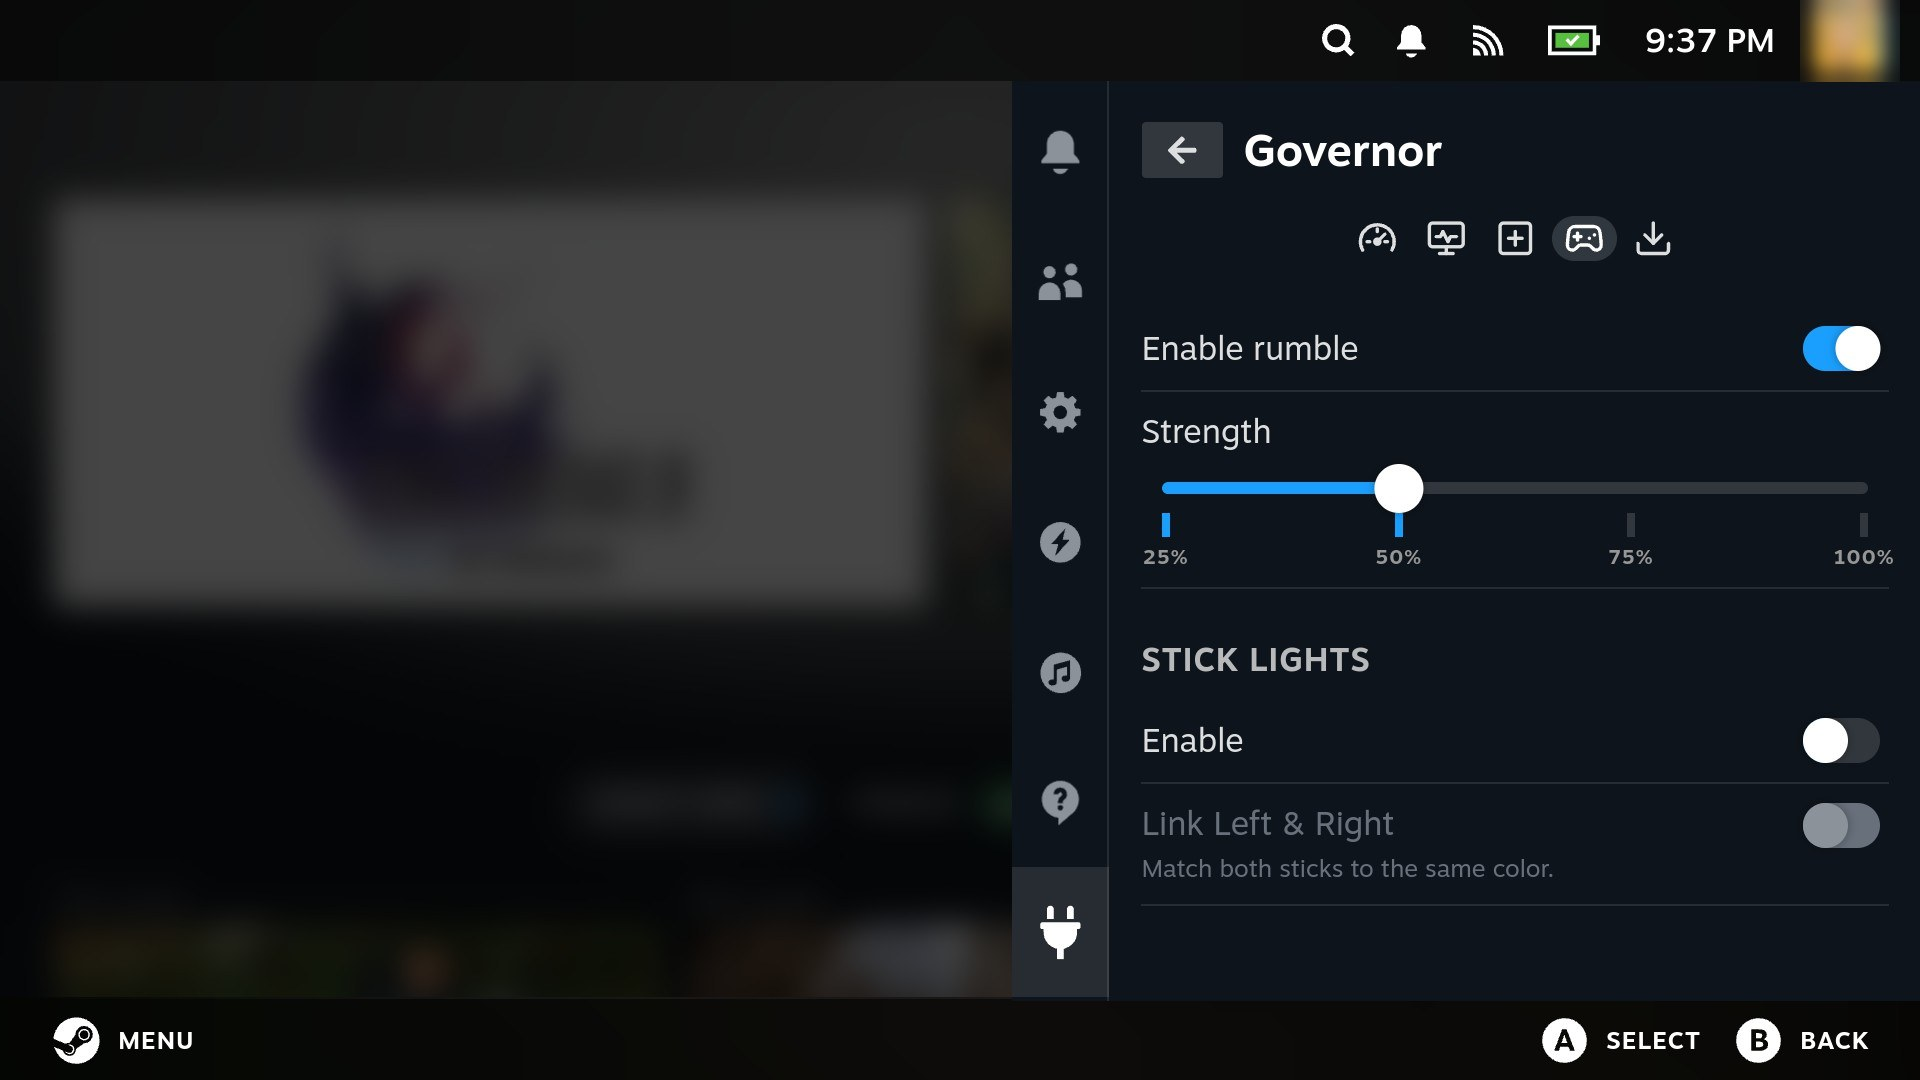
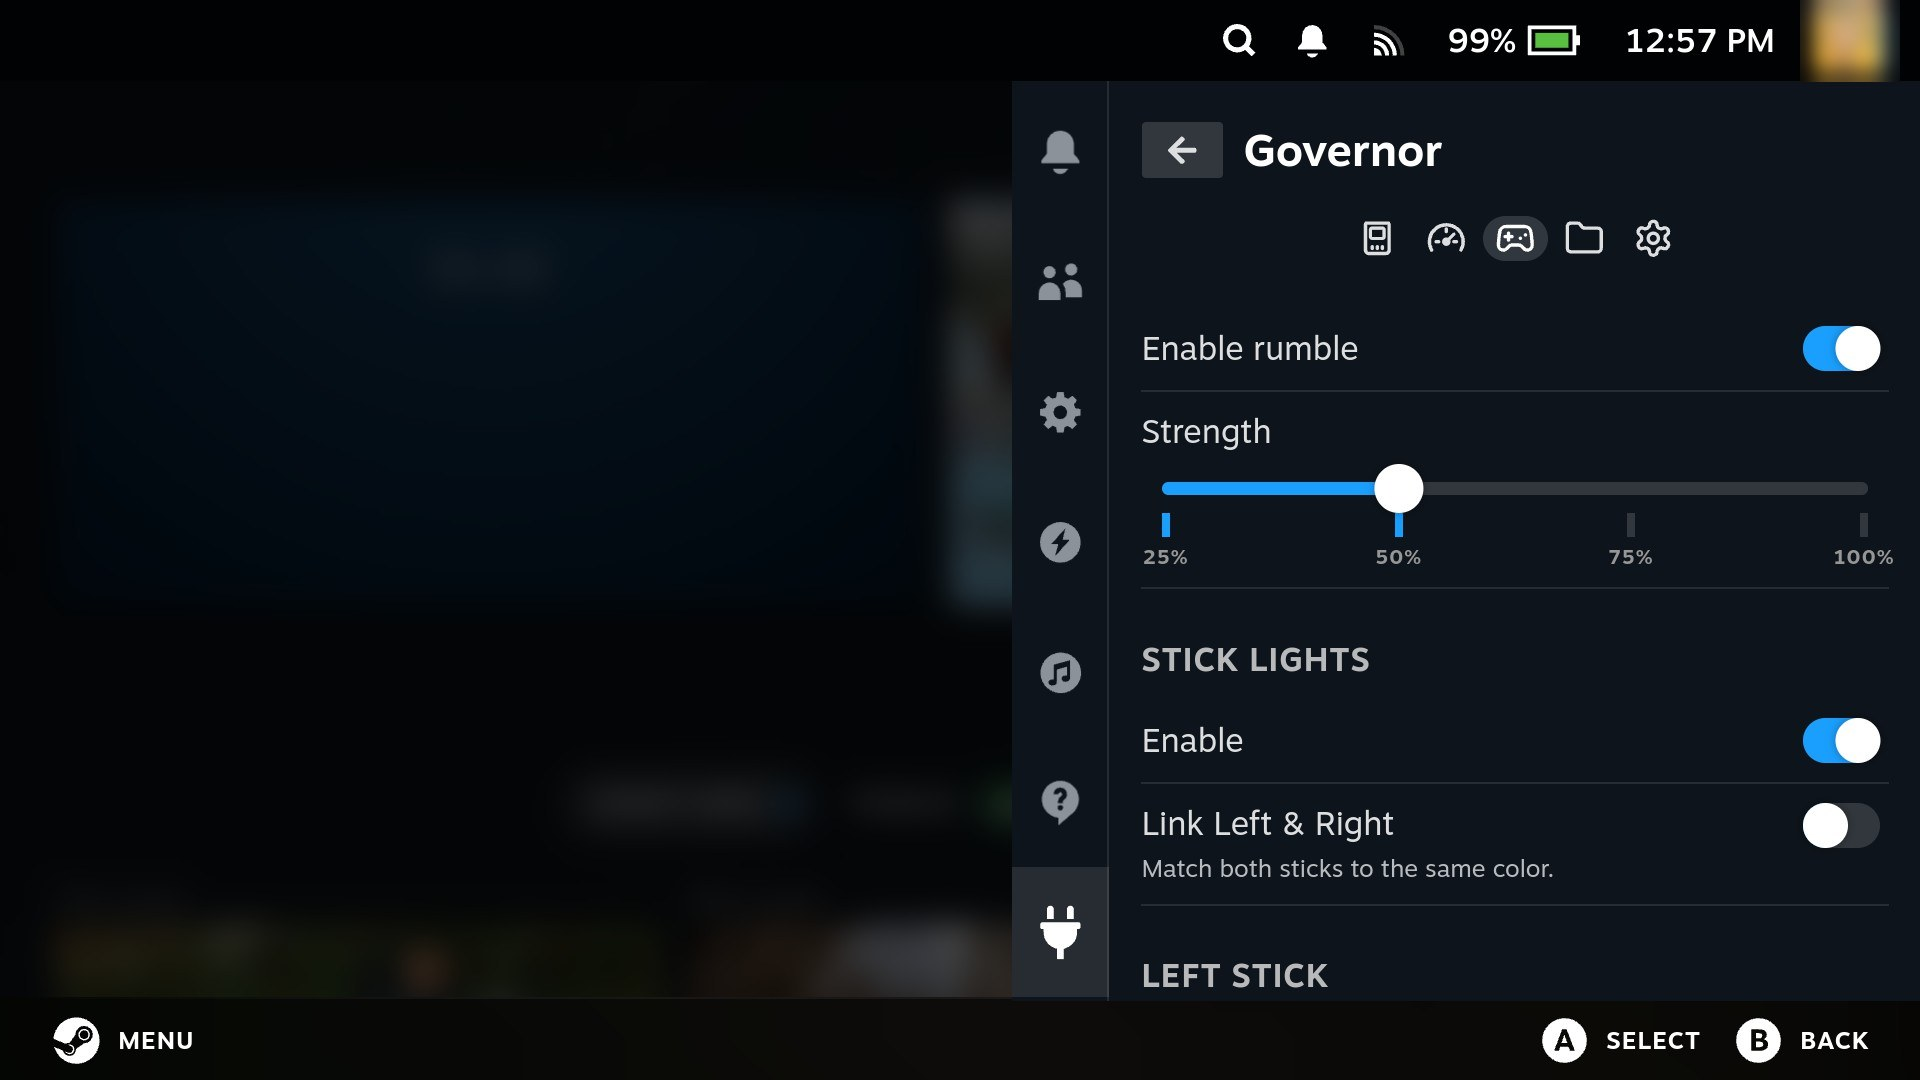
docs: Governor screenshots with the new tabs
Fresh from the RP6 after the tab change, avatar blurred. The This Game
tab's tweaks are back, and the SD card section and linked stick lights
get pictures of their own. The old remote access shot showed the USB
switch on what is now another tab, so it's out until there's a new one.

diff --git a/docs/governor.md b/docs/governor.md
@@ -24,6 +24,8 @@ no fan, no fan curve; a gamepad driver that can't be calibrated, no calibration;
 
 ### Game tweaks
 
+![The This Game tab's Game Tweaks: FEX preset, audio buffer, Xalia and the touchscreen](images/governor-games.jpeg)
+
 Tweaks can be set globally (the **Default** entry in the **Game** dropdown) or per game.
 Every installed Steam game is listed, and so are non-Steam shortcuts (marked `· non-Steam`).
 If you open the menu while a game is running, that game is preselected. To override the
@@ -124,7 +126,7 @@ draw) or **Everything**. It's the same overlay as Steam's own **Performance Over
 the quick access menu, so changing either one changes it. The level you pick here stays from
 game to game (Steam's own setting resets with every game it starts).
 
-![The performance overlay set to Detailed, with the system monitor below it](images/governor-overlay.jpeg)
+![The Performance tab: the overlay on the Compact bar, then the CPU scheduler and fan curve](images/governor-overlay.jpeg)
 
 ### CPU scheduler and fan curve
 
@@ -171,15 +173,17 @@ For numbers on top of the game itself, use the performance overlay above.
   sticks one colour, **Side Lights** to match the side lighting to the sticks, then colour and
   brightness per stick.
 
-  ![Rumble on at 50% strength, and the stick lights switched off](images/governor-rumble.jpeg)
+  ![Rumble on at 50% strength, and the stick lights switched on](images/governor-rumble.jpeg)
 
-  ![Stick lights on, with the left stick's hue and saturation](images/governor-stick-lights.jpeg)
+  ![The left stick's hue, saturation and brightness](images/governor-stick-lights.jpeg)
+
+  ![Link Left & Right on: one set of sliders for both sticks](images/governor-stick-lights-linked.jpeg)
 
 ## Files
 
 ### Adding non-Steam games
 
-![Add Non-Steam Game, then File Sharing](images/governor-add-game.jpeg)
+![The Files tab: Add Non-Steam Game, then File Sharing](images/governor-add-game.jpeg)
 
 Steam's own **Add a Non-Steam Game** dialog does not work on Steamling, so add them here:
 
@@ -224,6 +228,8 @@ current filesystem before you wipe it.
 The section shows the detected card (label, size, current filesystem); set a label if you like
 and press **Format SD Card**.
 
+![USB file transfer, then the SD Card section showing a mounted 500 GB card](images/governor-sd-card.jpeg)
+
 > **Formatting erases everything on the card.** The confirmation dialog makes you type
 > `format` before it will run, so you cannot trigger it by accident.
 
@@ -233,7 +239,7 @@ target right away, and cards formatted here also work in a real Steam Deck (and 
 
 ## System
 
-![Check for Updates, and the last snapshot under Rollback](images/governor-updater.jpeg)
+![The System tab: Check for Updates, and the last snapshot under Rollback](images/governor-updater.jpeg)
 
 System updates, without leaving game mode:
 
@@ -261,8 +267,6 @@ saves and settings are untouched. To go back further, or when game mode itself i
 
 **Allow SSH logins** lets you log in from another computer's terminal, and shows the exact
 `ssh deck@...` line to type once it's on. It's the same switch as in **Steamling Tools**.
-
-![USB file transfer switched off, then Remote Access with SSH logins allowed](images/governor-remote-access.jpeg)
 
 > Every Steamling image ships with the same default password. Change yours first: open Konsole
 > in desktop mode and run `passwd`.
